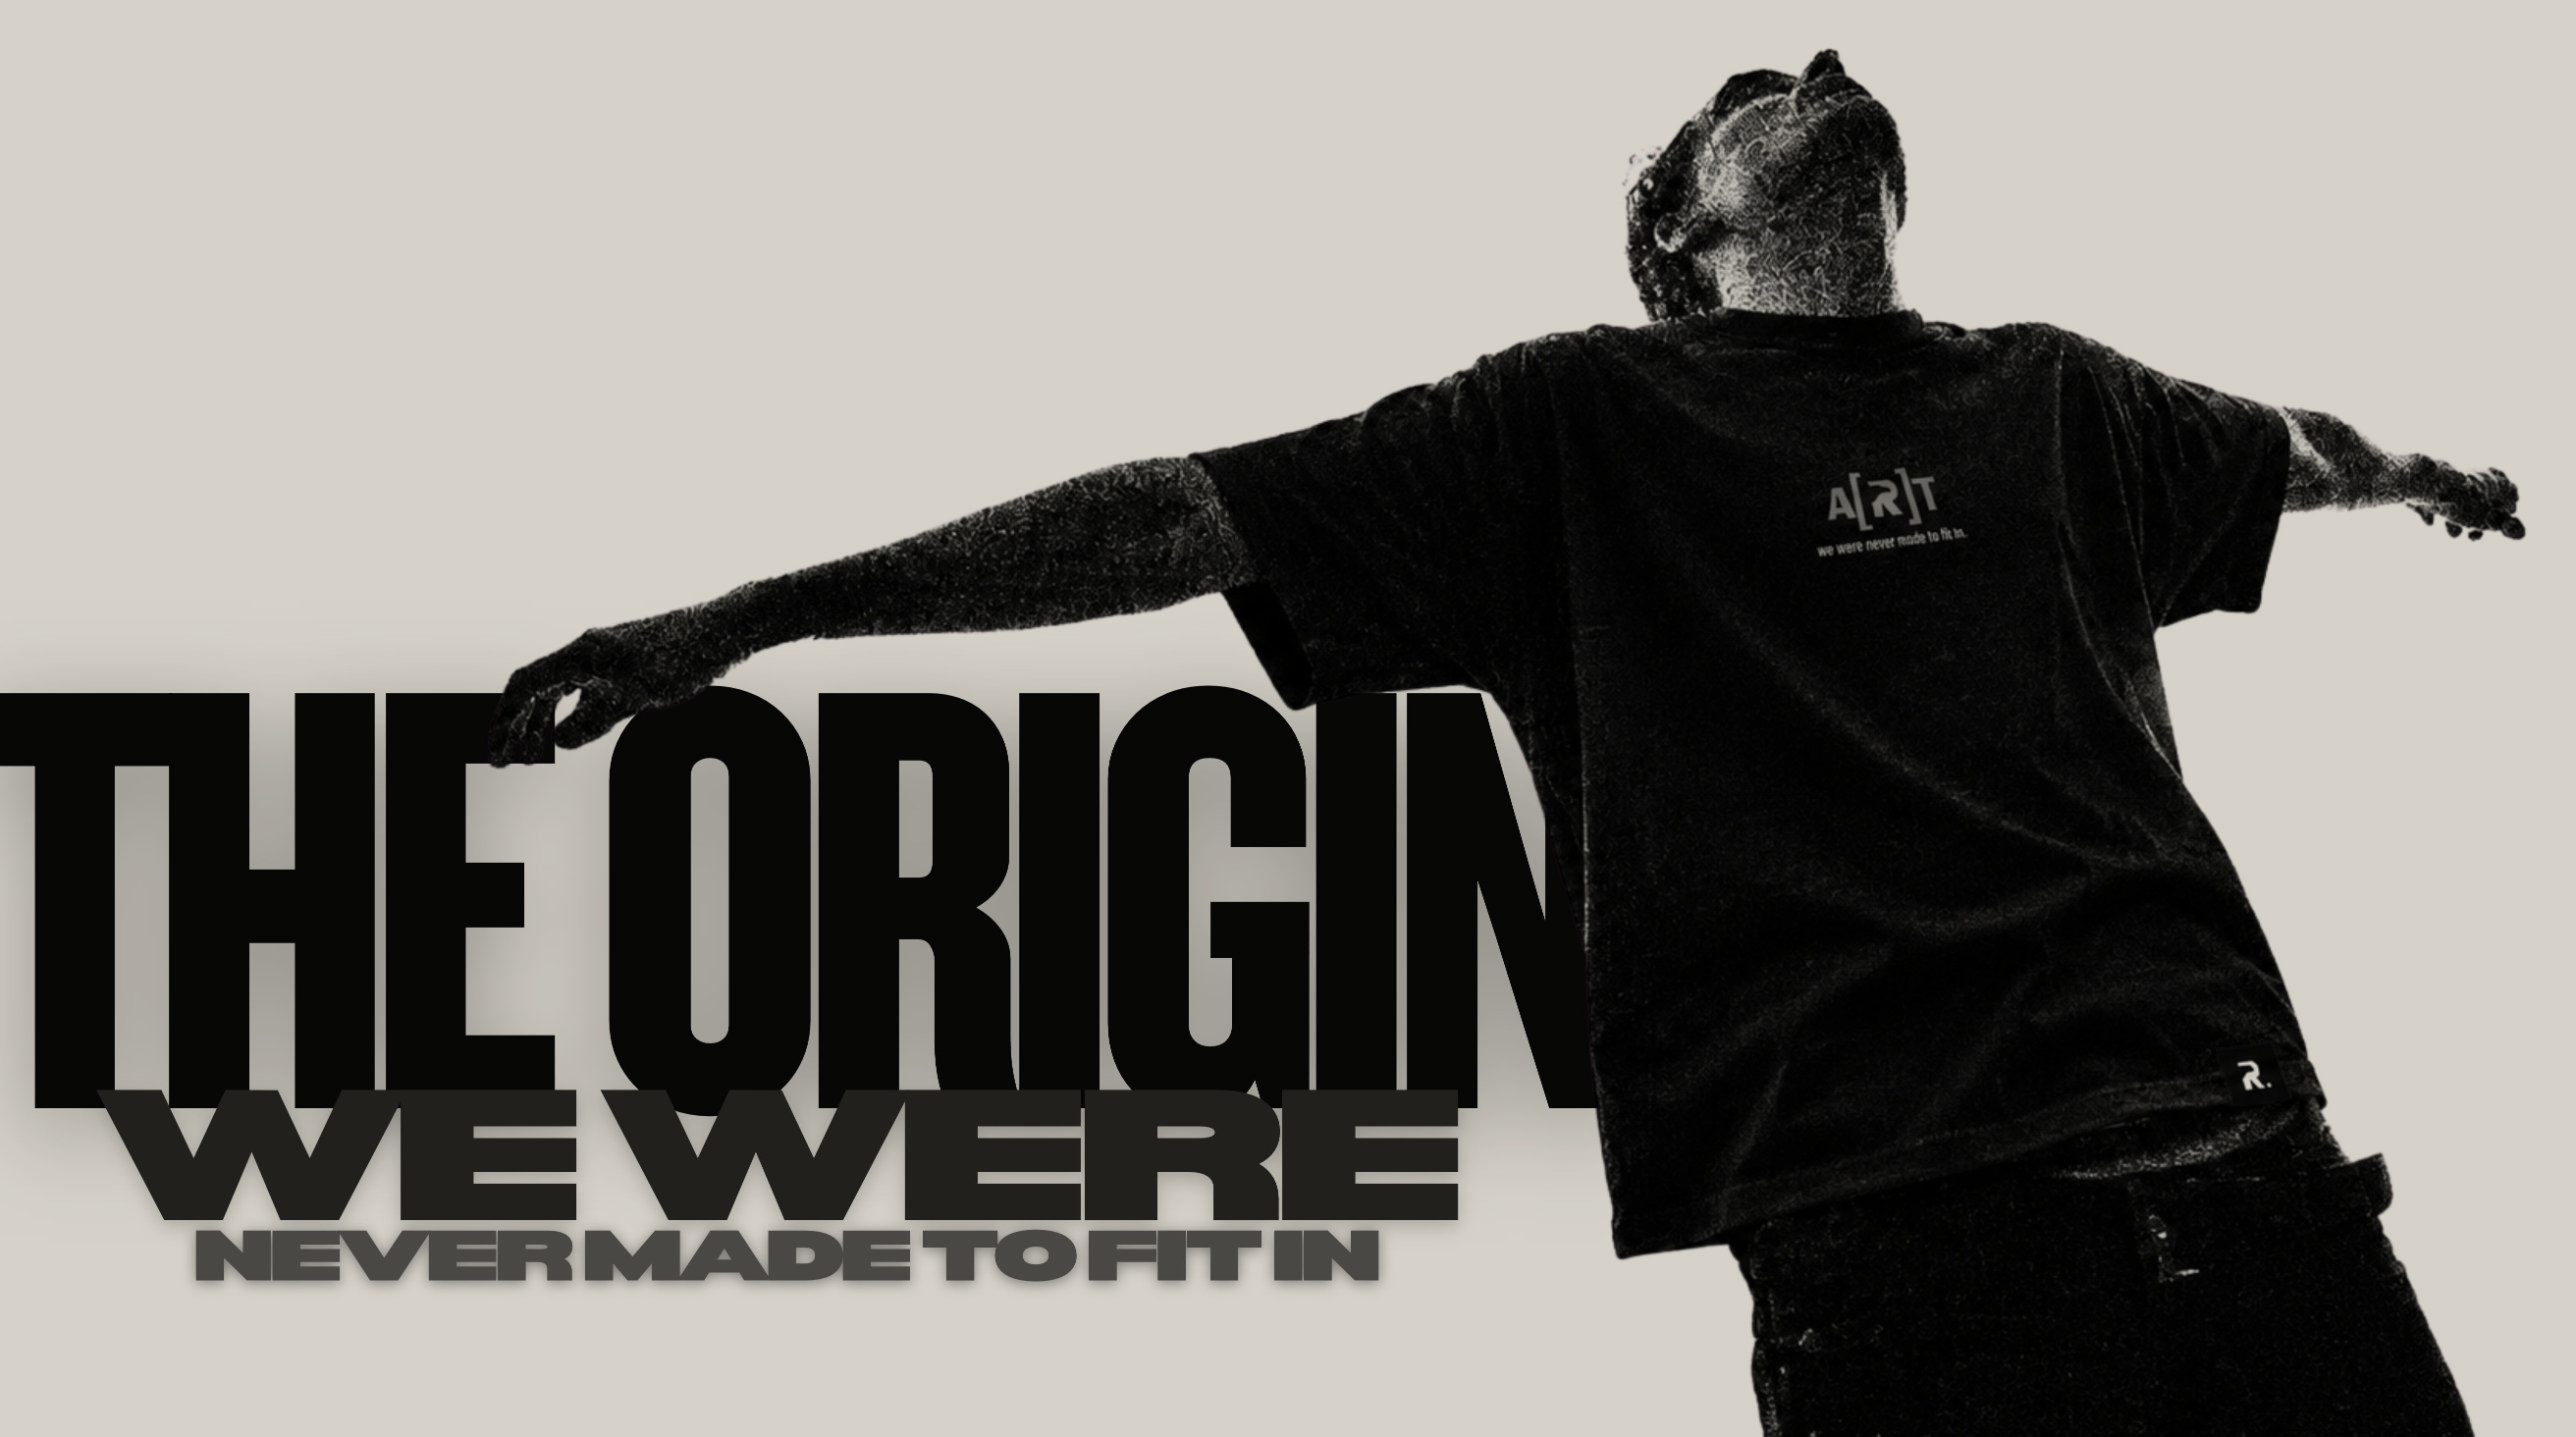
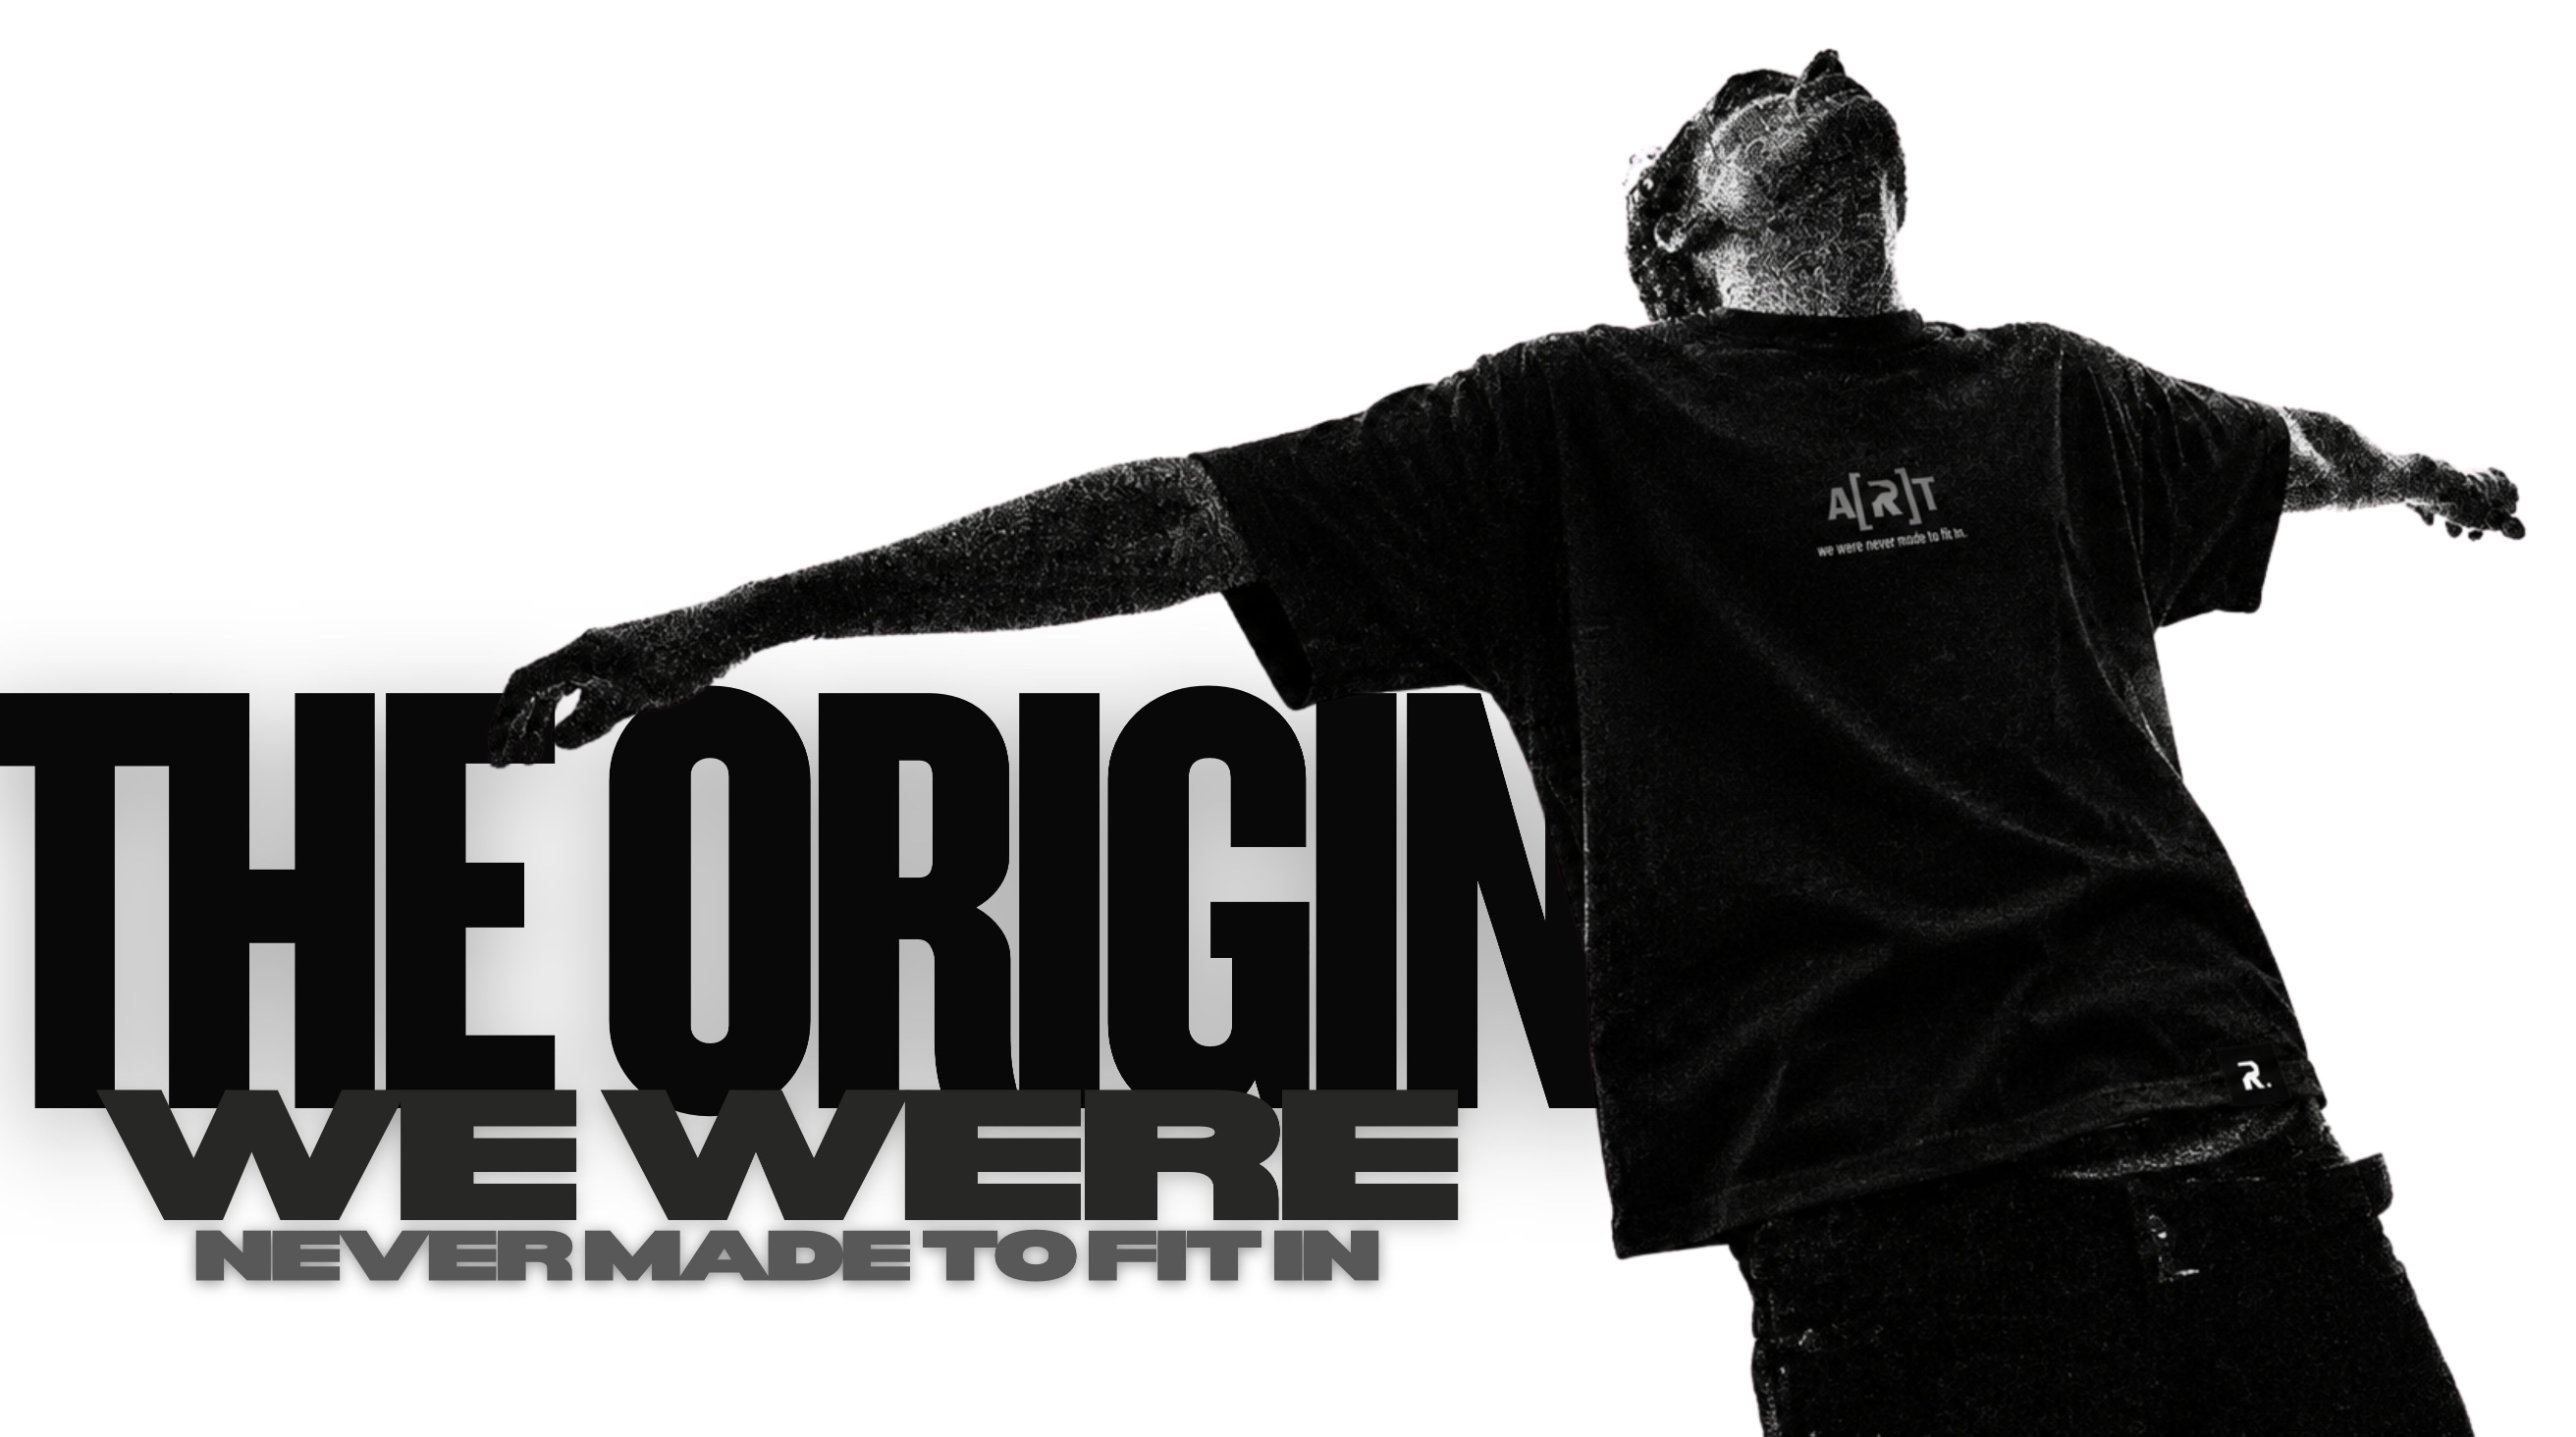
Pasa el afiche al cierre del inicio y mejora su calidad
- El afiche cierra el inicio, con el botón al manifiesto en su espacio libre; reemplaza la frase, que ya trae.
- Se sirve el archivo original del cliente, sin recomprimir; el blanco se ve Bone al multiplicarse con el fondo.
- Sale en AVIF con WebP de respaldo: conserva el grano de la foto.

diff --git a/README.md b/README.md
@@ -17,10 +17,10 @@ npm run preview  # sirve dist/ para revisarlo
 
 ## Estructura
 
-- `src/pages/index.astro` — el inicio: portada, colección, afiche de The Origin, banner de la figura y la frase de la marca con el paso al manifiesto.
+- `src/pages/index.astro` — el inicio: portada, colección, banner de la figura y, al cierre, el afiche de The Origin con el paso al manifiesto.
 - `src/pages/marca.astro` — la página de la marca (`/marca/`): manifiesto, significado del nombre, universo de colecciones y la invitación a hacer parte de la marca (`#unete`). Se llega por la i de la barra y por el botón "Leer el manifiesto" del inicio; la R de la barra lleva directo a la invitación.
 - `src/pages/prenda/[codigo].astro` — la página de cada prenda (`/prenda/000/`...): frente y espalda, precio, tallas y botón de pedido por WhatsApp con el mensaje ya escrito; debajo, las demás prendas. La foto de campaña solo sale en la prenda que aparece en ella.
-- `src/components/` — las secciones. Del inicio: animación de entrada, hero con la franja del lema, colección, figura (banner) y cierre con la frase. De la página de marca: manifiesto, significado, universo e invitación (`Unete.astro`). Compartidos: barra superior, pie de página, `Tarjeta.astro` (la tarjeta de una prenda y la del próximo drop) y `Campana.astro` (la foto de campaña, en la ficha y junto a la invitación).
+- `src/components/` — las secciones. Del inicio: animación de entrada, hero con la franja del lema, colección, figura (banner) y cierre (afiche del cliente con el botón al manifiesto). De la página de marca: manifiesto, significado, universo e invitación (`Unete.astro`). Compartidos: barra superior, pie de página, `Tarjeta.astro` (la tarjeta de una prenda y la del próximo drop) y `Campana.astro` (la foto de campaña, en la ficha y junto a la invitación).
 - `src/data/sitio.ts` — lema, enlaces de redes y WhatsApp, y los textos de marca: manifiesto, significado (URBAN + BORN), los capítulos del universo y la invitación (con el mensaje que llega escrito a WhatsApp).
 - `src/lib/iconos.ts` — trazos de íconos que se usan en más de un sitio.
 - `src/components/FotoPrenda.astro` — foto de una prenda: sale en AVIF (guarda el color a resolución completa, así el rojo
@@ -71,7 +71,9 @@ El inicio, la ficha y la página de marca pasan sin fallos. Cambios que salieron
 - La barra superior usa un color plano en vez del degradado suave del diseño, y comparte márgenes con el contenido.
 - La escala de texto se redujo a cuatro tamaños más el titular (`--t-*` en `src/styles/global.css`).
 - El texto corrido va en el color pleno (Bone o Black); el gris se deja para precios y notas.
-- La frase del cierre del inicio va sobre Bone, para que el final no sea un tramo largo de negro.
+- El cierre del inicio es el afiche de The Origin sobre Bone: se sirve tal como lo mandó el cliente y su blanco se ve Bone
+  porque se multiplica con el fondo. Va en AVIF, que conserva el grano de la foto mejor que WebP.
+- El aviso «Powered by Netlify» está apagado en Netlify (Project configuration > General > Powered by Netlify badge).
 
 ## Despliegue
 
